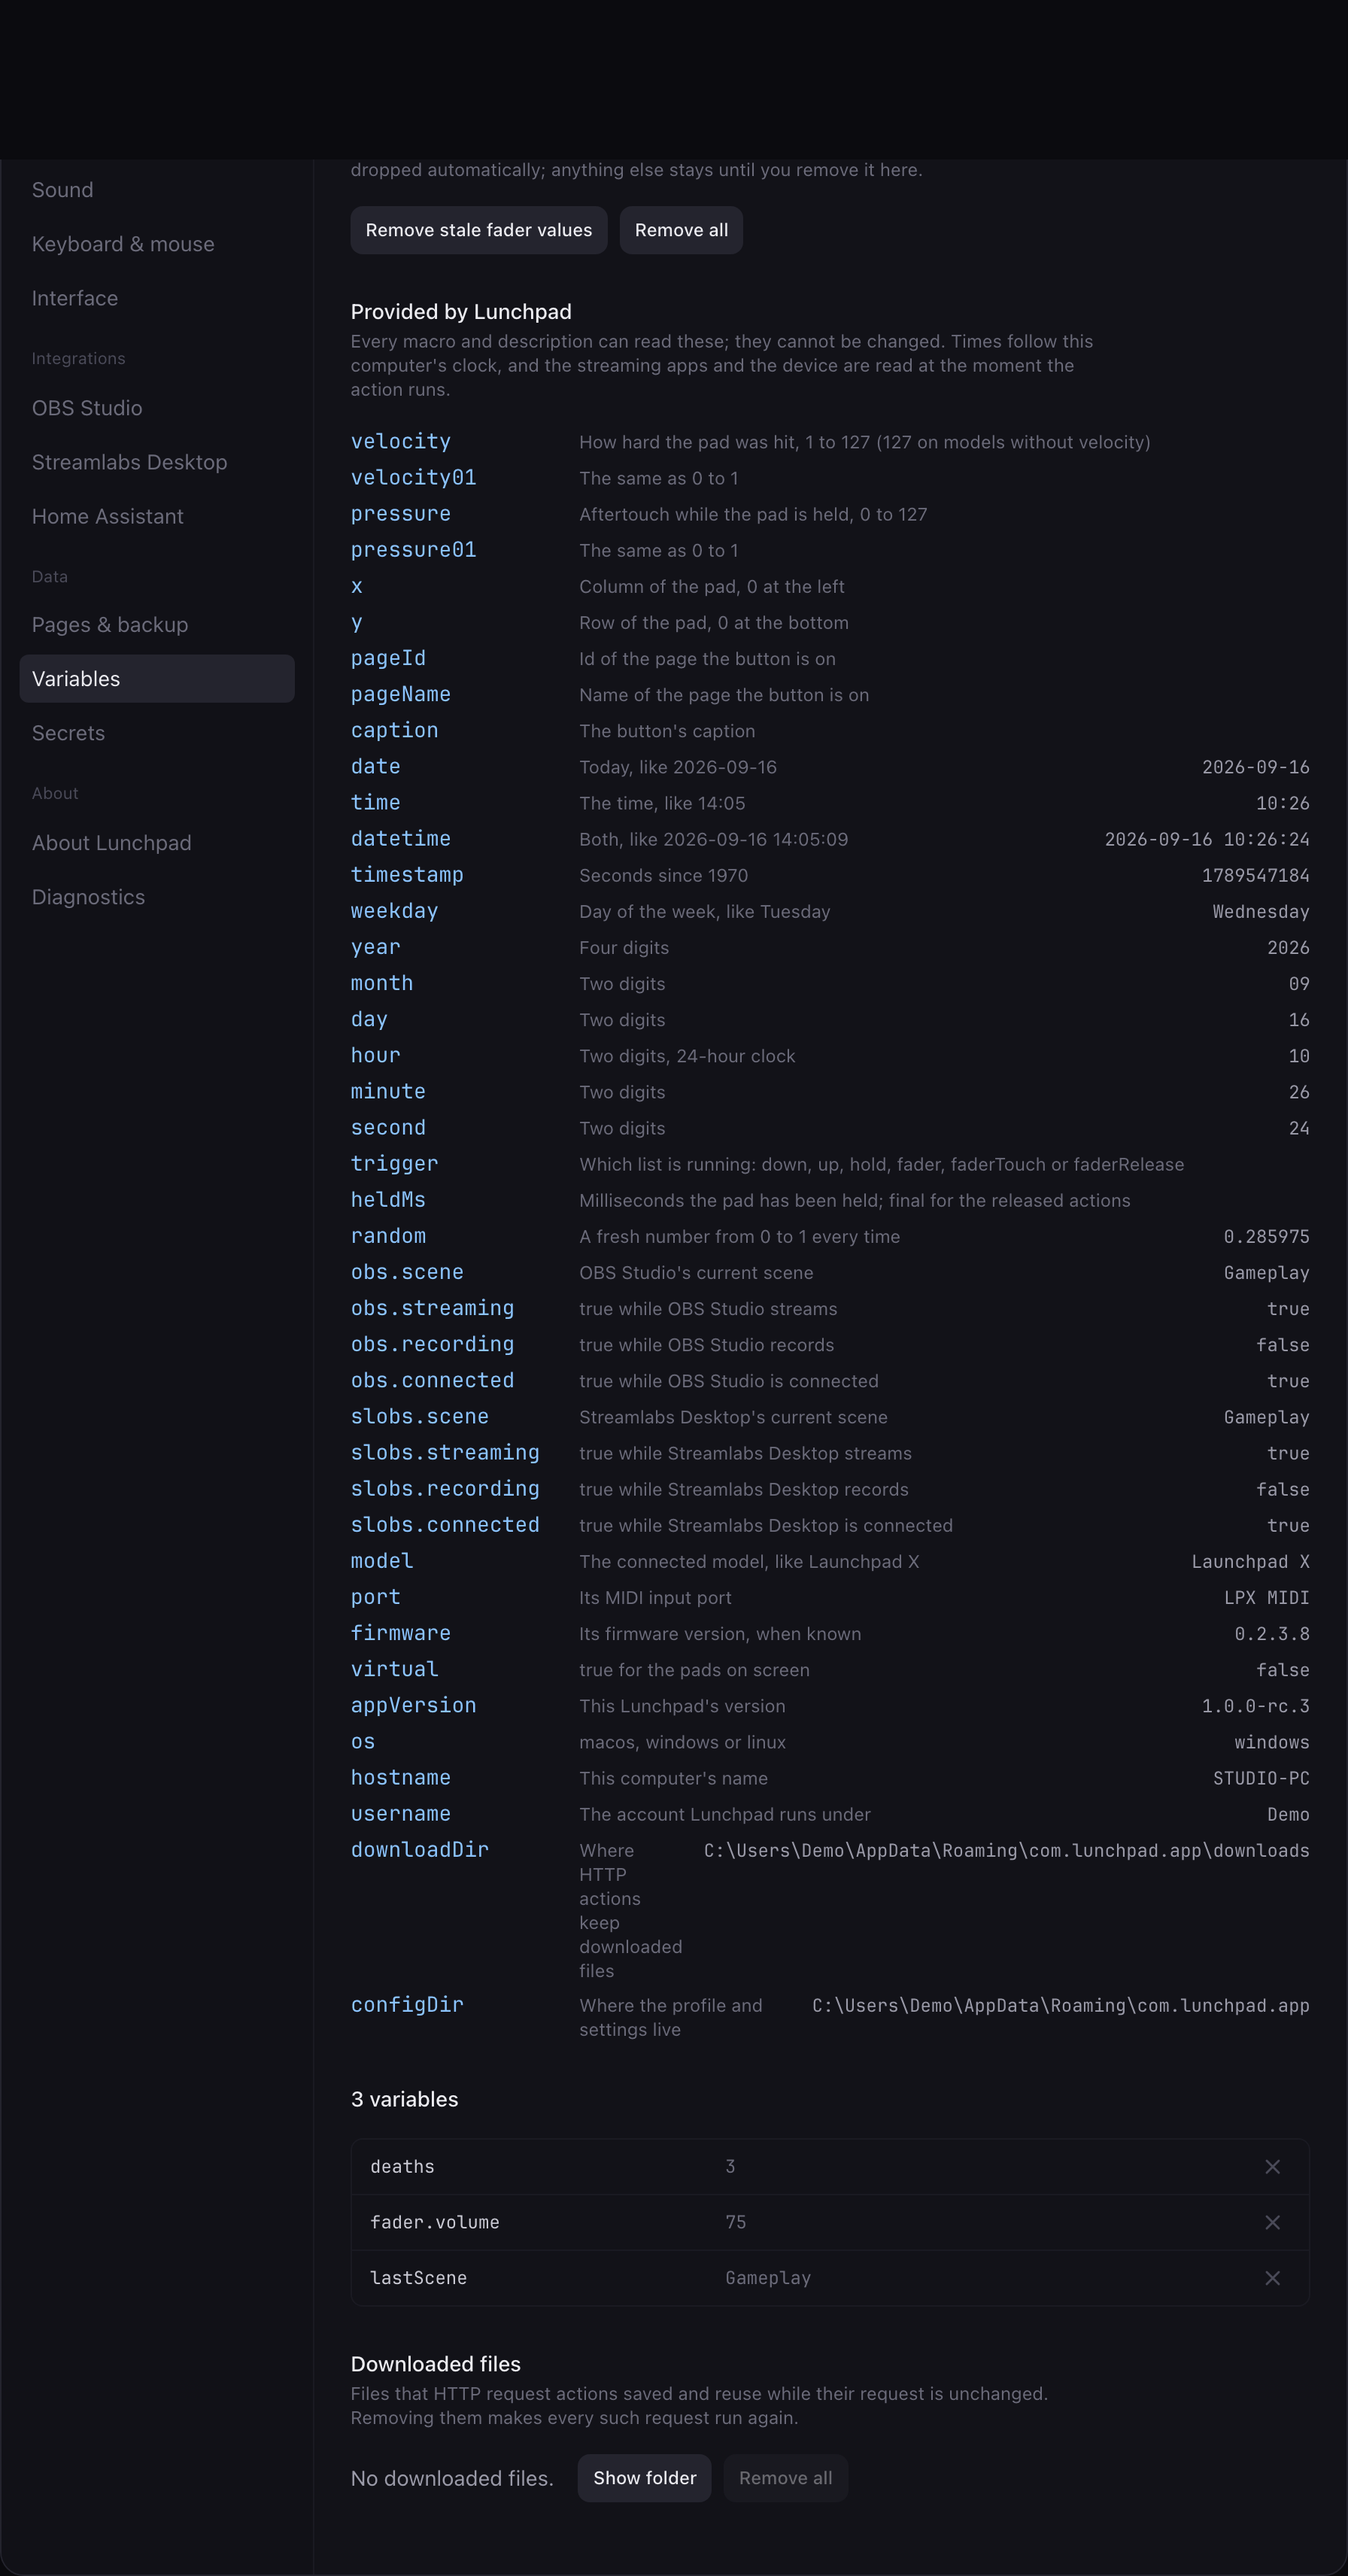
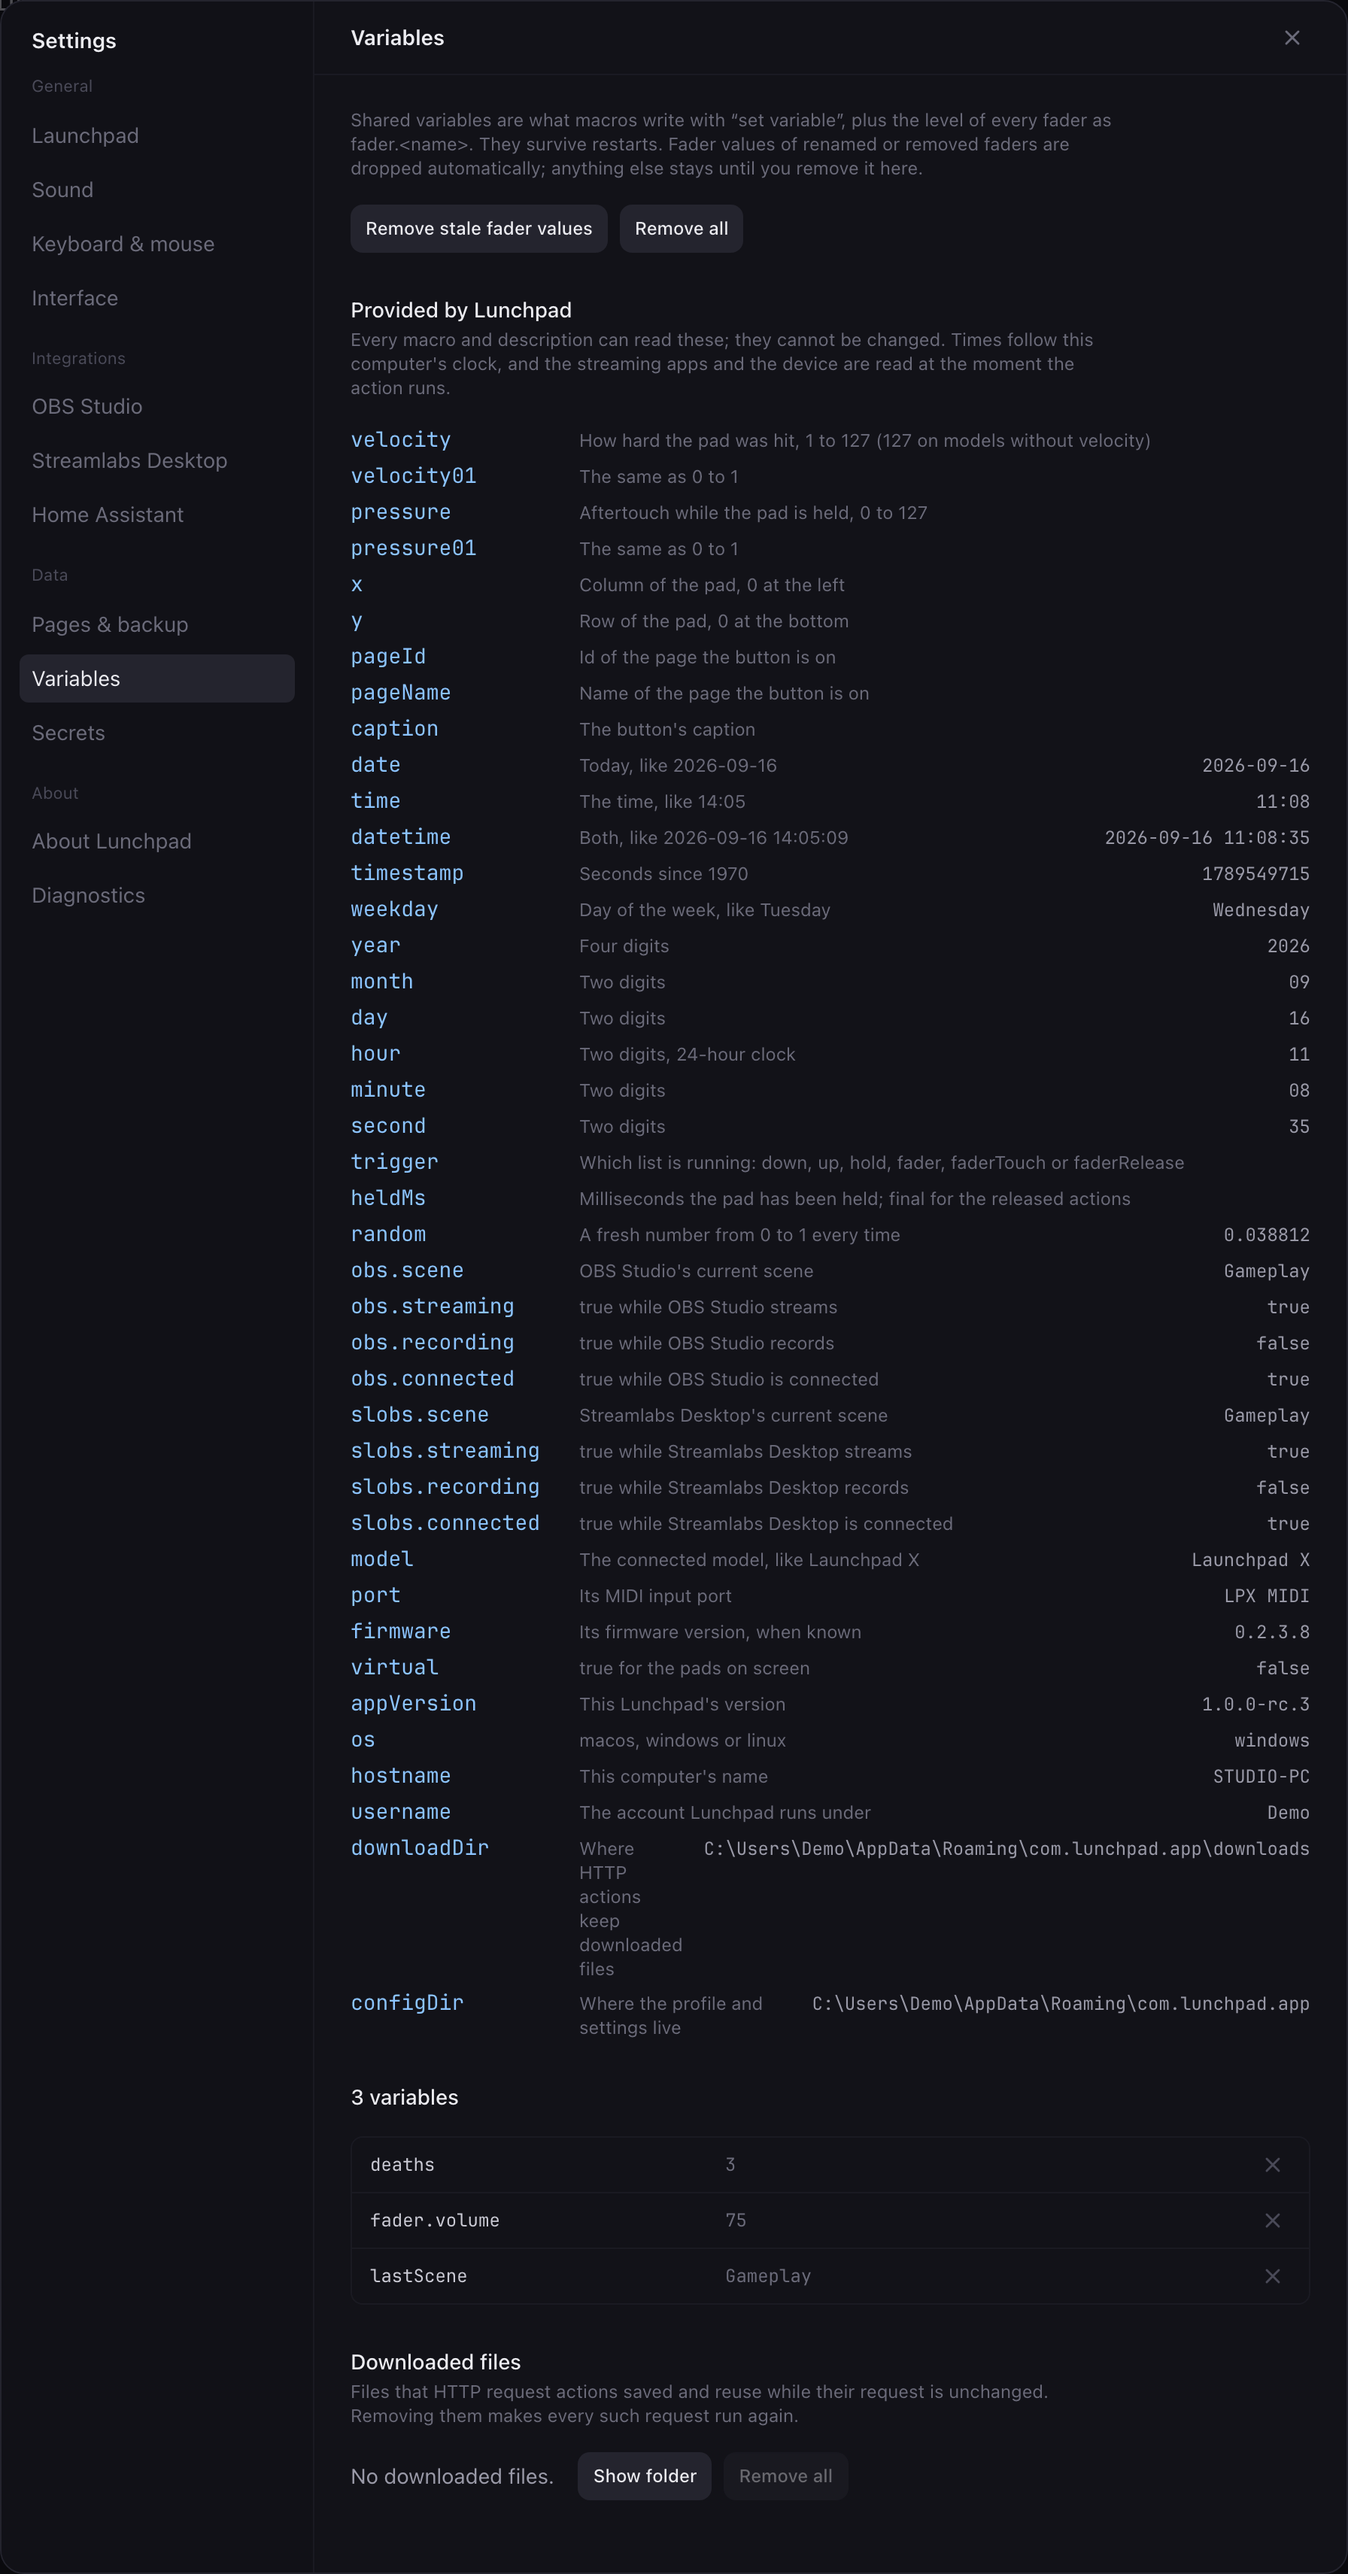
Give a dialog taller than the window room in a screenshot
The Variables tab grew past the window when it gained the provided variables.
The dialog is centred and fixed, so the overflow went off the top of the screen
rather than out of the bottom, and the shot lost its header and the first lines
of the panel. The capture now measures the target first and grows the window to
fit it, so no shot can lose its top quietly. The Variables tab taken again.

diff --git a/scripts/screenshots/capture.ts b/scripts/screenshots/capture.ts
@@ -46,6 +46,18 @@ for (const shot of shots) {
     await page.waitForSelector(shot.scenario?.view === "picker" ? "text=Choose your Launchpad" : '[data-pad="0,0"]', { timeout: 30_000 });
     await page.waitForTimeout(1200); // pads fade in one by one
     const target = shot.run ? await shot.run(page) : undefined;
+    // A dialog grown to its full height (CAPTURE_CSS) can end up taller than the window.
+    // It is centred and fixed, so the overflow goes off the top of the screen and the shot
+    // loses the dialog's header. Give the window the room it needs and let it settle.
+    if (target) {
+      const box = await target.boundingBox();
+      const size = page.viewportSize()!;
+      const needed = Math.ceil((box?.height ?? 0) + (shot.margin ?? 0) * 2 + 40);
+      if (needed > size.height) {
+        await page.setViewportSize({ width: size.width, height: Math.min(needed, 4000) });
+        await page.waitForTimeout(400);
+      }
+    }
     const path = join(OUT, `${shot.name}.png`);
     mkdirSync(dirname(path), { recursive: true });
     if (target && shot.margin) {
